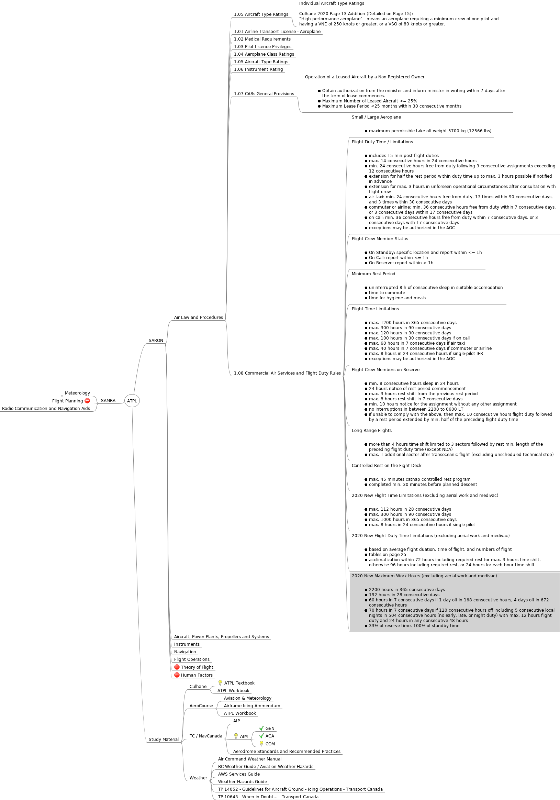
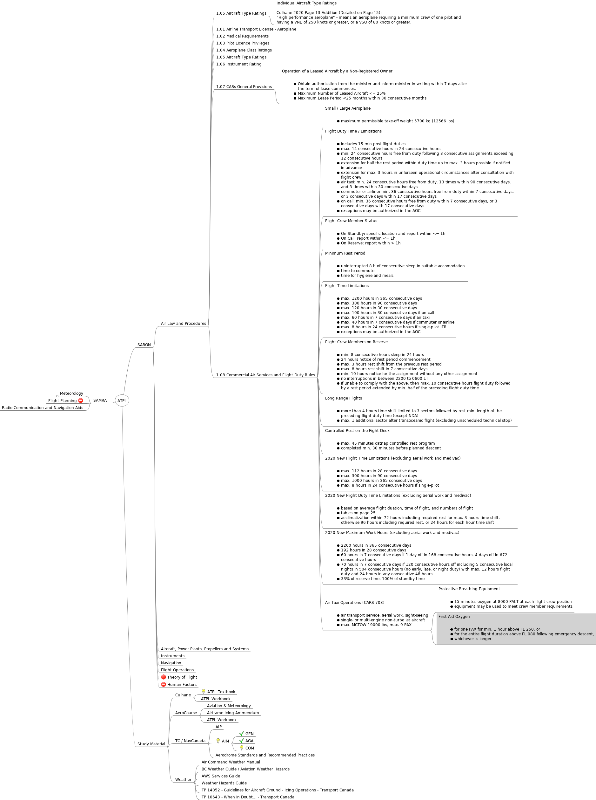
extended ATPL mind map

diff --git a/ATPL/ATPL.mm b/ATPL/ATPL.mm
@@ -255,8 +255,7 @@
       </li>
     </ul>
   </body>
-</html>
-</richcontent>
+</html></richcontent>
 </node>
 <node CREATED="1568939780393" ID="ID_924830446" MODIFIED="1568939963234">
 <richcontent TYPE="NODE"><html>
@@ -279,8 +278,7 @@
       </li>
     </ul>
   </body>
-</html>
-</richcontent>
+</html></richcontent>
 </node>
 <node CREATED="1568939989087" ID="ID_1035279483" MODIFIED="1568940089256">
 <richcontent TYPE="NODE"><html>
@@ -303,8 +301,7 @@
       </li>
     </ul>
   </body>
-</html>
-</richcontent>
+</html></richcontent>
 </node>
 <node CREATED="1568941349966" ID="ID_411903113" MODIFIED="1568941539412">
 <richcontent TYPE="NODE"><html>
@@ -333,8 +330,7 @@
       </li>
     </ul>
   </body>
-</html>
-</richcontent>
+</html></richcontent>
 </node>
 <node CREATED="1568941757956" ID="ID_789879009" MODIFIED="1568942289511">
 <richcontent TYPE="NODE"><html>
@@ -360,8 +356,7 @@
       </li>
     </ul>
   </body>
-</html>
-</richcontent>
+</html></richcontent>
 </node>
 <node CREATED="1568942407116" ID="ID_215437811" MODIFIED="1568942873762">
 <richcontent TYPE="NODE"><html>
@@ -393,8 +388,85 @@
       </li>
     </ul>
   </body>
+</html></richcontent>
+</node>
+<node CREATED="1568996218527" ID="ID_381676043" MODIFIED="1568996800902">
+<richcontent TYPE="NODE"><html>
+  <head>
+    
+  </head>
+  <body>
+    <p>
+      Air Taxi Operations (CARS 703)
+    </p>
+    <p>
+      
+    </p>
+    <ul>
+      <li>
+        air transport service, aerial work, sight-seeing
+      </li>
+      <li>
+        single- or multi-engine non-turbo jet aircraft
+      </li>
+      <li>
+        max. MCTOW 19000 lbs, max. 9 PAX
+      </li>
+    </ul>
+  </body>
 </html>
 </richcontent>
+<node CREATED="1568999209156" ID="ID_1754657585" MODIFIED="1568999339101">
+<richcontent TYPE="NODE"><html>
+  <head>
+    
+  </head>
+  <body>
+    <p>
+      Protective Breathing Equipment
+    </p>
+    <p>
+      
+    </p>
+    <ul>
+      <li>
+        15 minutes oxygen at 8000 PALT at each flight crew position
+      </li>
+      <li>
+        equipment may be used to meet crew member requirements
+      </li>
+    </ul>
+  </body>
+</html>
+</richcontent>
+</node>
+<node CREATED="1568999230424" ID="ID_1923730970" MODIFIED="1568999536157">
+<richcontent TYPE="NODE"><html>
+  <head>
+    
+  </head>
+  <body>
+    <p>
+      First Aid Oxygen
+    </p>
+    <p>
+      
+    </p>
+    <ul>
+      <li>
+        for one PAX for min. 1 hour above FL 250, or
+      </li>
+      <li>
+        for the entire flight duration above FL 080 following emergency descent,
+      </li>
+      <li>
+        whichever is longer
+      </li>
+    </ul>
+  </body>
+</html>
+</richcontent>
+</node>
 </node>
 </node>
 </node>
